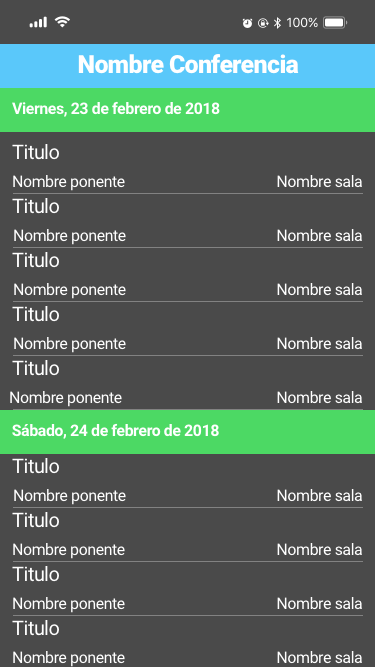
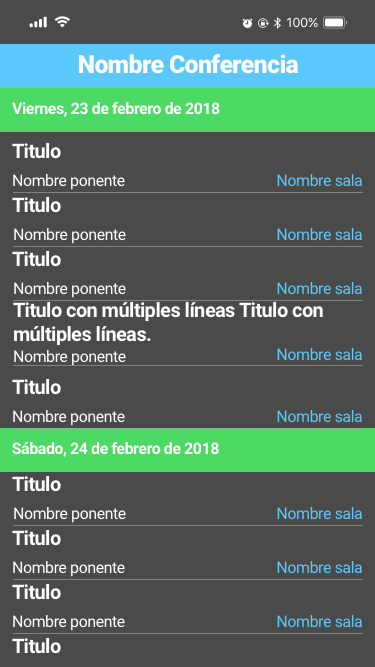
Add more information about conference names and settings UI.

diff --git a/ConferenceApp/SessionListViewController.swift b/ConferenceApp/SessionListViewController.swift
@@ -9,26 +9,38 @@
 import UIKit
 
 class SessionListViewController: UIViewController {
-
+    @IBOutlet private var tableViewSession: UITableView?
+    
     var sessions: [Session] = []
 
     override func viewDidLoad() {
         super.viewDidLoad()
-
+        configureTableView()
         loadFakeData()
-
     }
 
     //MARK: Private
     private func loadFakeData(){
-        let session1 = Session(title: "Introdución a Swift 4", speaker: "Juan Morillo", roomLocation: "Sala A")
-        let session2 = Session(title: "Swift 4 Intermedio", speaker: "Mario Fernández", roomLocation: "Sala B")
-        let session3 = Session(title: "Swift 4 Avanzado", speaker: "Paulo Hertz", roomLocation: "Sala C")
-        let session4 = Session(title: "Introdución Vapor 3", speaker: "Karl Klitz", roomLocation: "Sala D")
-        sessions = [session1, session2, session3, session4]
+        let session1 = Session(title: "Comenzando con Swift 4 ", speaker: "Juan Morillo", roomLocation: "Sala A")
+        let session2 = Session(title: "Swift 4 Grado Maestro ", speaker: "Mario Fernández", roomLocation: "Sala B")
+        let session3 = Session(title: "Curso Intensivo de Swift 4 ", speaker: "Paulo Hertz", roomLocation: "Sala C")
+        let session4 = Session(title: "Iniciación al desarrollo de Apps en iOS 11 con Swift 4 ", speaker: "Karl Klitz", roomLocation: "Sala D")
+
+        let session5 = Session(title: "Desarrollo de Apps Avanzado en iOS 11 con Swift 4 ", speaker: "Julio Muñoz", roomLocation: "Sala E")
+
+        let session6 = Session(title: "Desarrollo con ARKit", speaker: "Grey Call", roomLocation: "Sala F")
+
+        let session7 = Session(title: "Desarrollo de Apps Avanzado en iOS 11 con Swift 4 ", speaker: "Grey Call", roomLocation: "Sala H")
+
+        sessions = [session1, session2, session3, session4, session5, session6, session7]
     }
 
-
+    //MARK: Private
+    private func configureTableView() {
+        let nib = UINib(nibName: "SessionTableViewCell", bundle: nil)
+        tableViewSession?.register(nib, forCellReuseIdentifier: "SessionTableViewCell")
+        tableViewSession?.estimatedRowHeight = 72
+    }
 }
 
 //MARK: - UITableViewDataSorce
@@ -39,10 +51,13 @@ extension SessionListViewController: UITableViewDataSource {
 
     func tableView(_ tableView: UITableView, cellForRowAt indexPath: IndexPath) -> UITableViewCell {
         let session = sessions[indexPath.row]
-        let cell = tableView.dequeueReusableCell(withIdentifier: "BasicCell", for: indexPath)
-        cell.textLabel?.text = session.title
+        let cell = tableView.dequeueReusableCell(withIdentifier: "SessionTableViewCell", for: indexPath)
+        if let sessionCell = cell as? SessionTableViewCell {
+            sessionCell.session = session
+        }
         return cell
     }
 
 }
+
 

diff --git a/ConferenceApp/SessionTableViewCell.swift b/ConferenceApp/SessionTableViewCell.swift
@@ -10,15 +10,18 @@ import UIKit
 
 class SessionTableViewCell: UITableViewCell {
 
-    override func awakeFromNib() {
-        super.awakeFromNib()
-        // Initialization code
-    }
+    @IBOutlet private var titleLabel: UILabel?
+    @IBOutlet private var nameSpeakerLabel: UILabel?
+    @IBOutlet private var nameRoomLabel: UILabel?
 
-    override func setSelected(_ selected: Bool, animated: Bool) {
-        super.setSelected(selected, animated: animated)
-
-        // Configure the view for the selected state
+    var session: Session? {
+        didSet {
+            updateUI()
+        }
     }
-    
+    private func updateUI(){
+        titleLabel?.text = session?.title
+        nameSpeakerLabel?.text = session?.speaker
+        nameRoomLabel?.text = session?.roomLocation
+    }
 }
